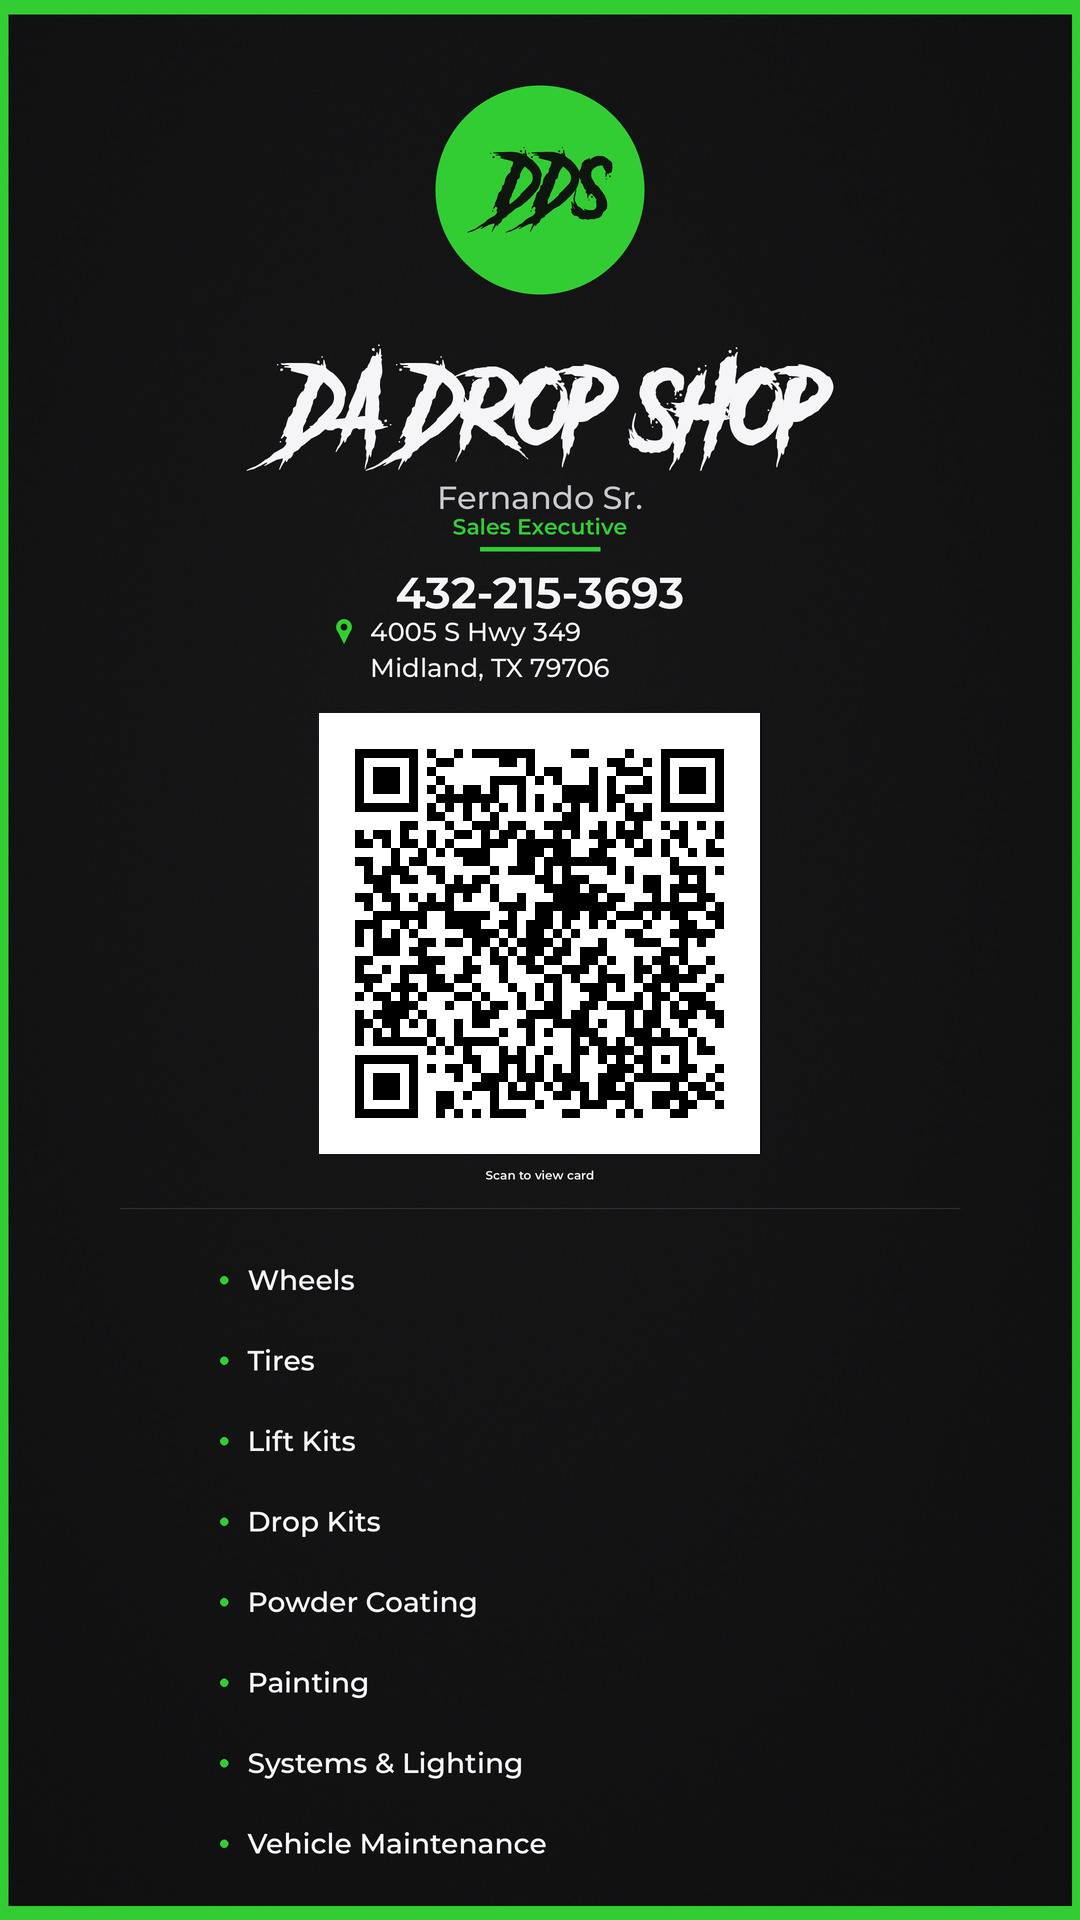
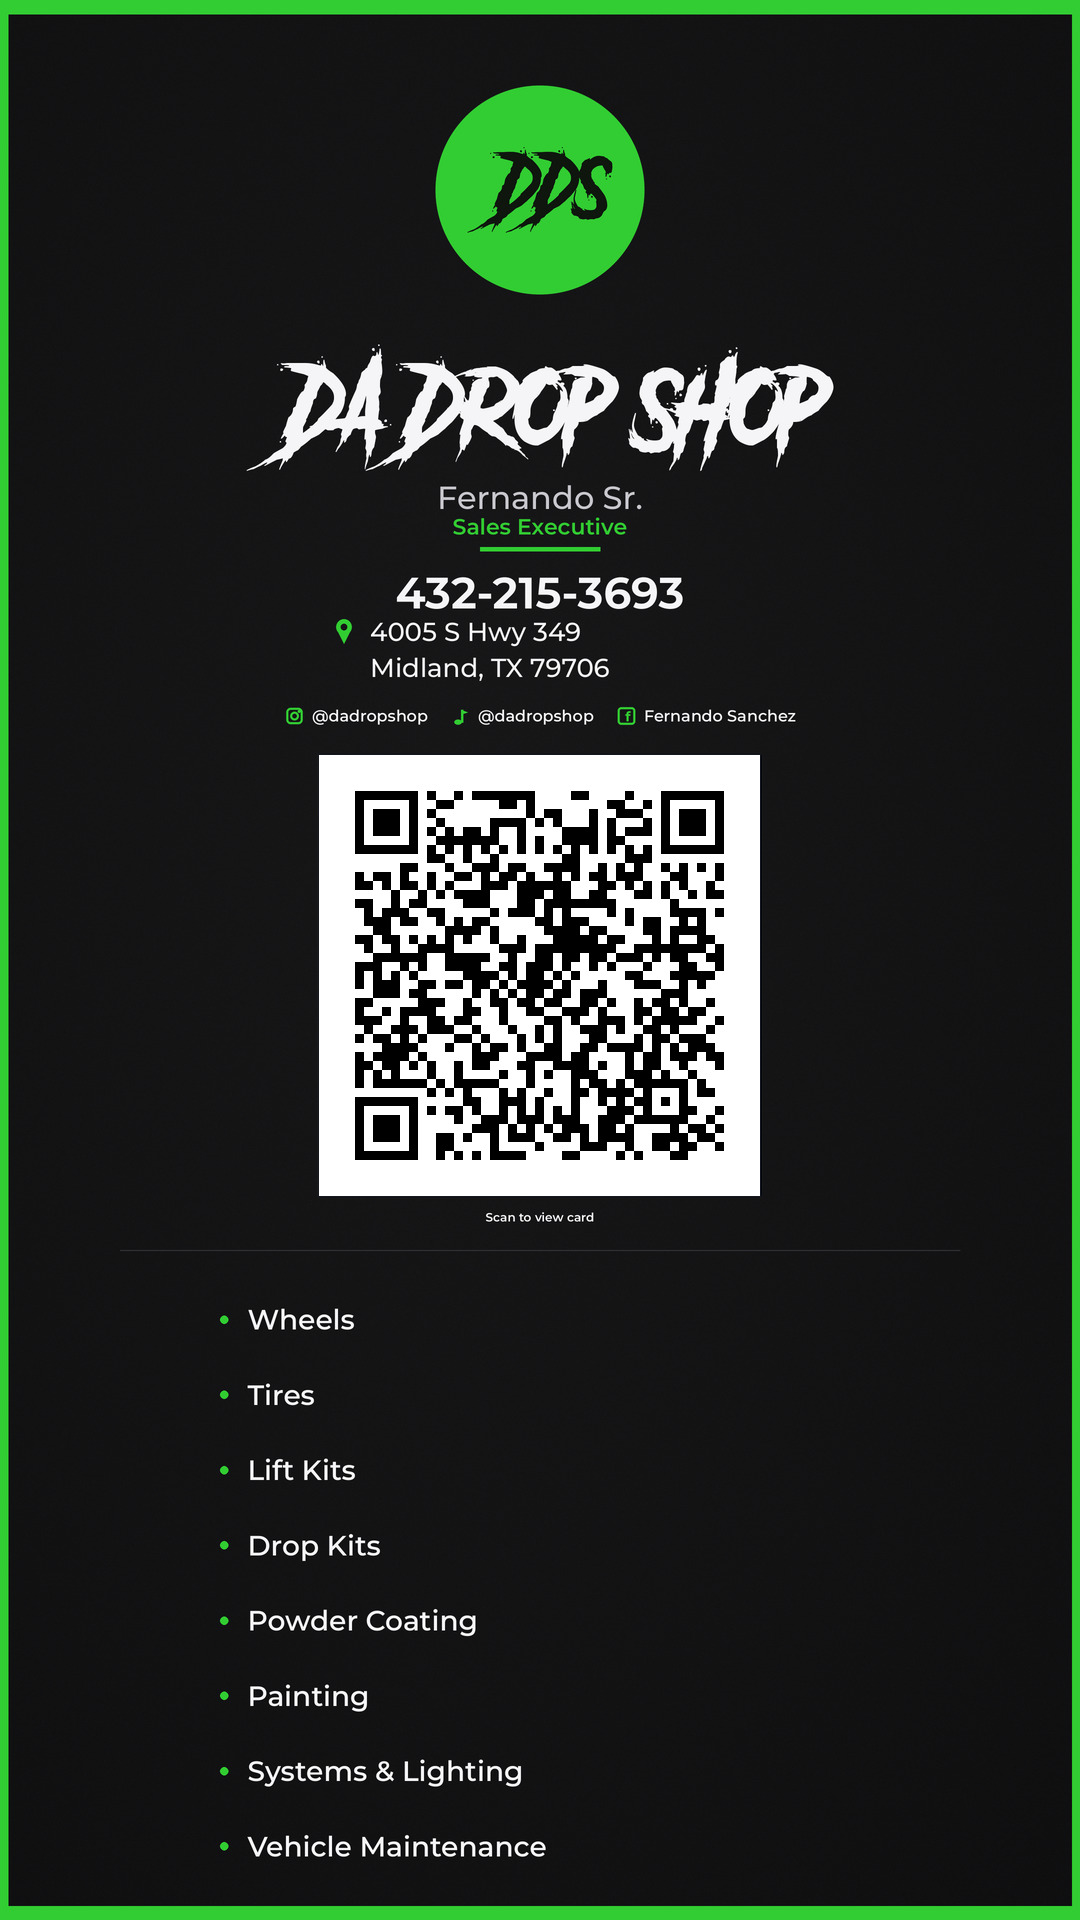
Add Instagram, TikTok, and Facebook links to Fernando Sr. card
Social row on the card images, tappable buttons on the page, and URLs in the vCard.

Changed region(s): [[0.275, 0.3438, 0.7028, 0.6562], [0.2139, 0.6562, 0.5194, 0.9688]]

diff --git a/index.html b/index.html
@@ -110,6 +110,23 @@ html, body {
   border-radius: 8px;
   display: block;
 }
+.socials {
+  display: grid;
+  grid-template-columns: 1fr;
+  gap: 10px;
+  margin: 0 0 24px;
+}
+.btn.social {
+  background: transparent;
+  border: 2px solid #32CD32;
+  color: #32CD32;
+  font-size: 15px;
+  padding: 12px 12px;
+}
+@media (min-width: 380px) {
+  .socials { grid-template-columns: 1fr 1fr 1fr; }
+  .btn.social { font-size: 13px; padding: 12px 8px; }
+}
 .foot {
   font-size: 11px;
   color: #6e6e78;
@@ -123,6 +140,11 @@ html, body {
     <a class="btn" href="tel:+14322153693">Call 432-215-3693</a>
     <a class="btn secondary" href="https://maps.google.com/?q=4005+S+Hwy+349,+Midland,+TX+79706">Directions</a>
     <a class="btn secondary" href="FernandoSr.vcf" download="FernandoSr.vcf">Save Contact</a>
+    <div class="socials">
+      <a class="btn social" href="https://www.instagram.com/dadropshop/" target="_blank" rel="noopener noreferrer">Instagram @dadropshop</a>
+      <a class="btn social" href="https://www.tiktok.com/@dadropshop" target="_blank" rel="noopener noreferrer">TikTok @dadropshop</a>
+      <a class="btn social" href="https://www.facebook.com/share/1CKXxJwPwb/?mibextid=wwXIfr" target="_blank" rel="noopener noreferrer">Fernando Sanchez</a>
+    </div>
     <a class="addr" href="https://maps.google.com/?q=4005+S+Hwy+349,+Midland,+TX+79706">4005 S Hwy 349<br>Midland, TX 79706</a>
     <ul class="services">
       <li>Wheels</li>
